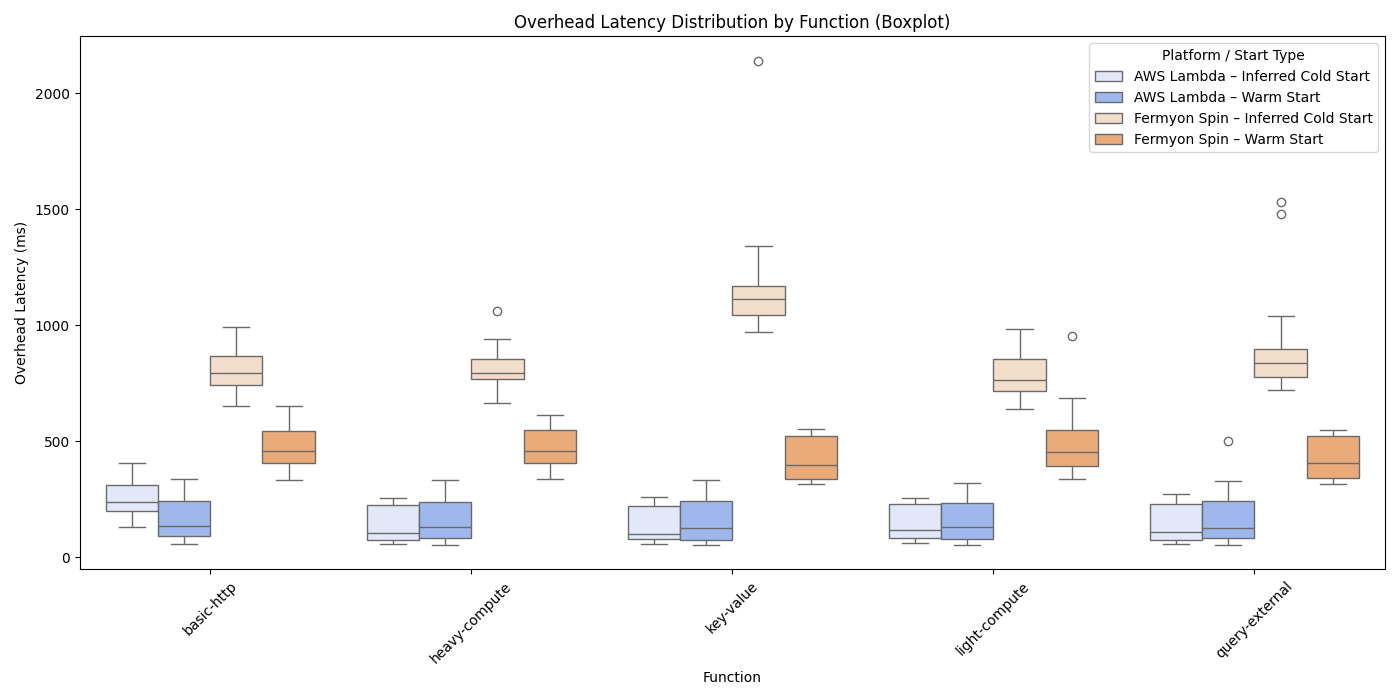
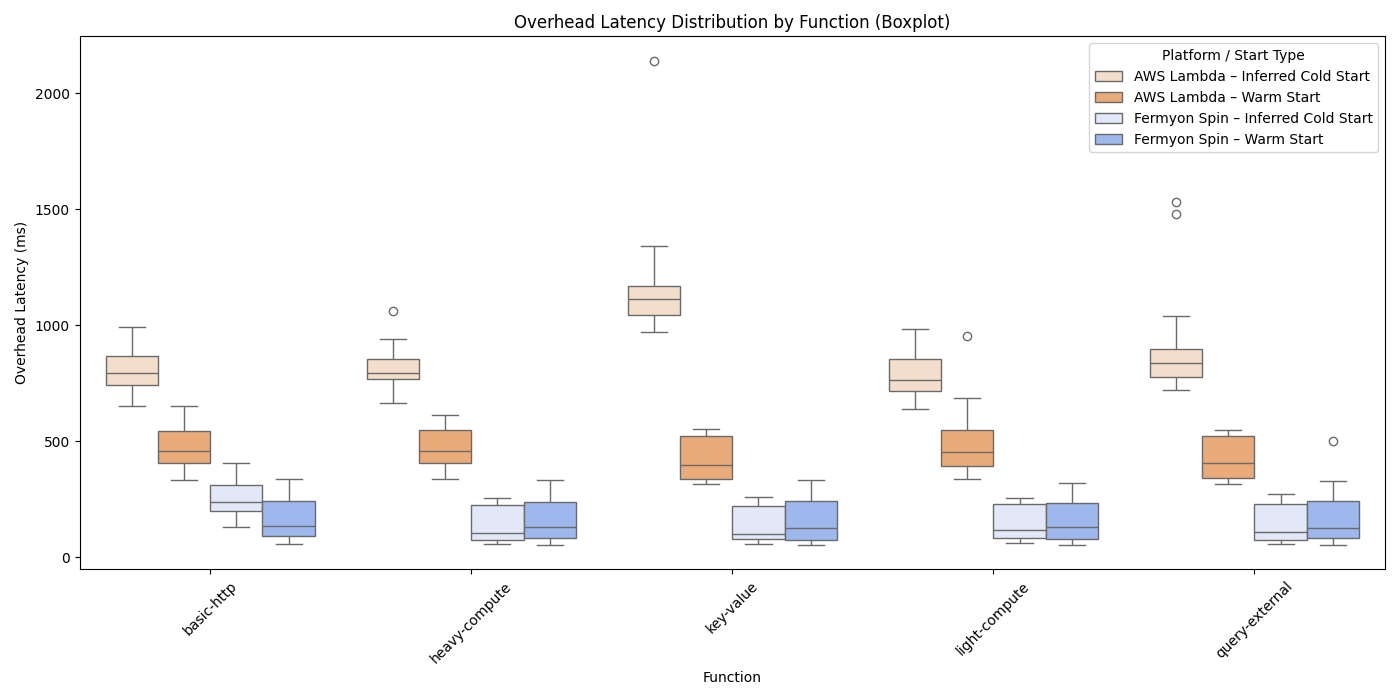
Update boxplot H2

diff --git a/h2/scripts/analyze_latency.py b/h2/scripts/analyze_latency.py
@@ -270,6 +270,13 @@ custom_palette_boxplot = {
     "Fermyon Spin – Warm Start": "#91b2fa"
 }
 
+hue_order = [
+    "AWS Lambda – Inferred Cold Start",
+    "AWS Lambda – Warm Start",
+    "Fermyon Spin – Inferred Cold Start",
+    "Fermyon Spin – Warm Start"
+]
+
 # Create boxplot
 ax = sns.boxplot(
     data=df,
@@ -277,7 +284,9 @@ ax = sns.boxplot(
     y="overhead_ms",
     hue="platform_cold",
     palette=custom_palette_boxplot,
-    order=sorted_function_names
+    order=sorted_function_names,
+    hue_order=hue_order,
+    #flierprops=dict(marker="o", color="white", markersize=0)  # Hide outliers
 )
 
 # Set plot title and labels
